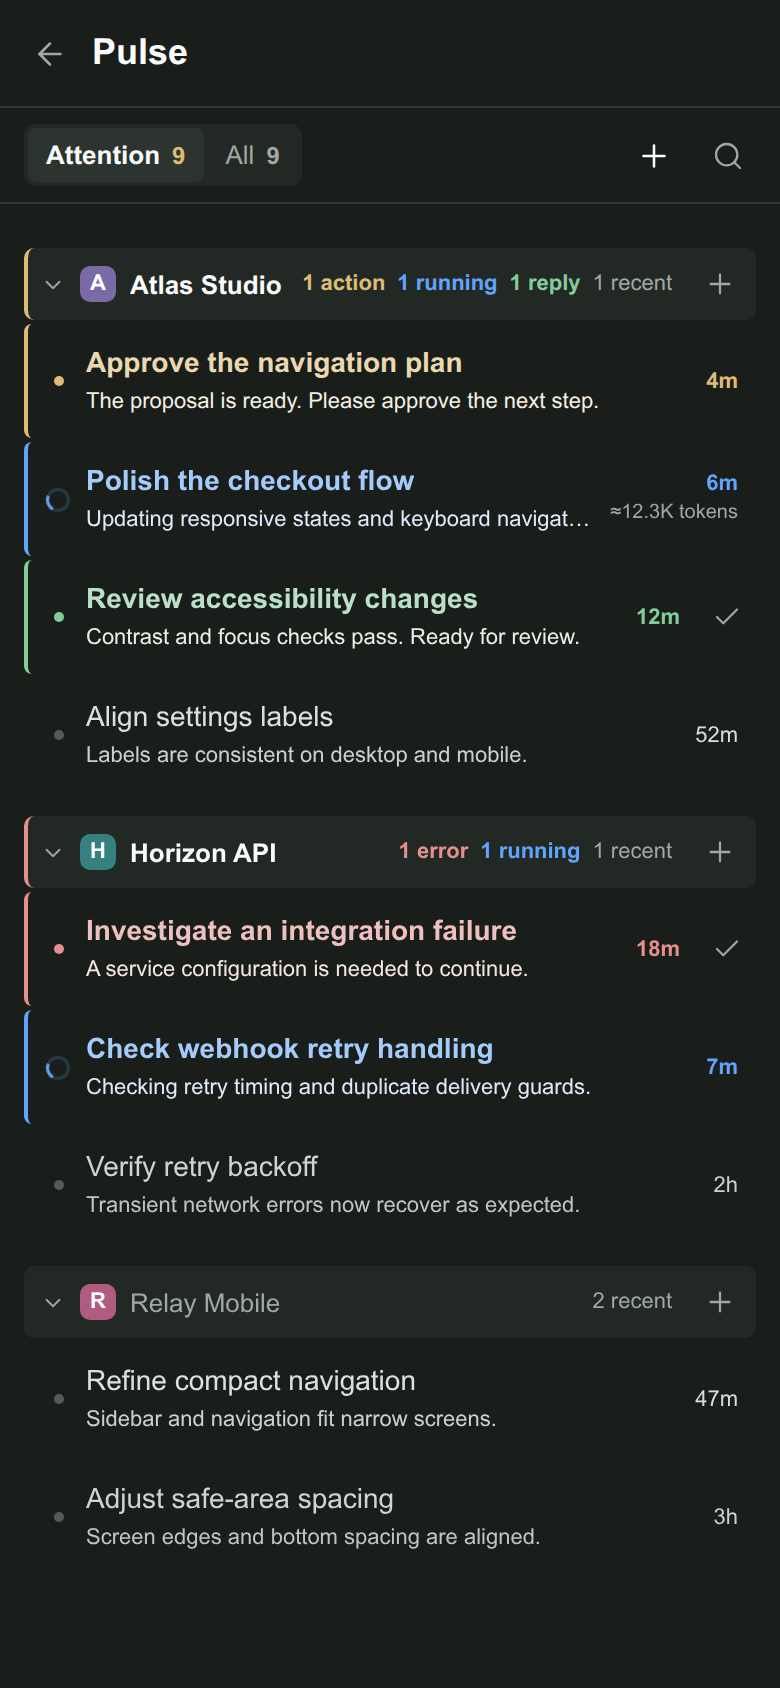
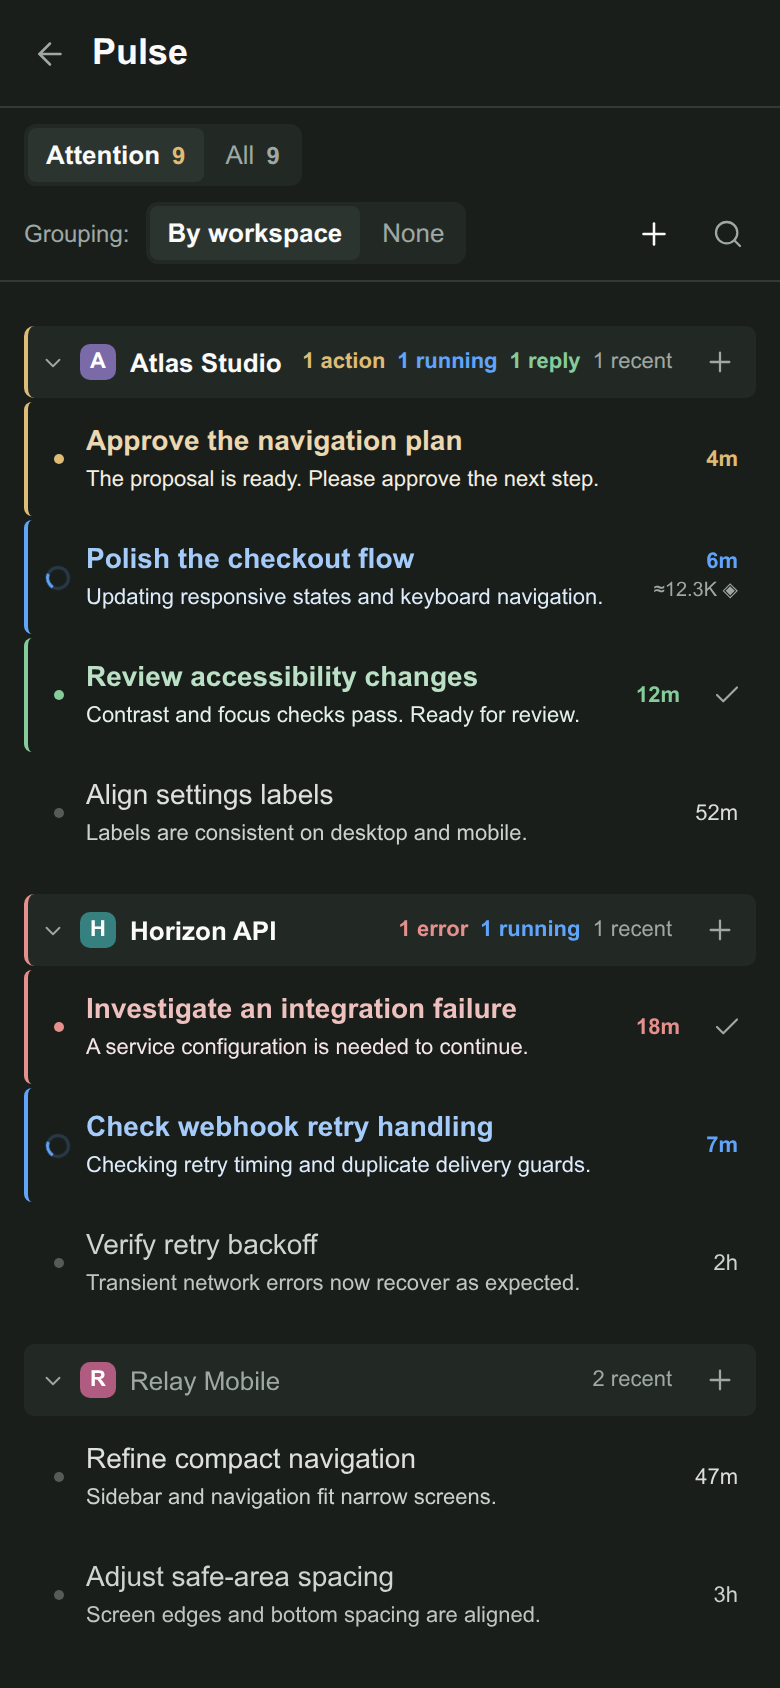
Add workspace grouping toggle to Pulse inbox

diff --git a/client/view-models/inbox-view-model.ts b/client/view-models/inbox-view-model.ts
@@ -35,6 +35,7 @@ export class InboxViewModel extends PulseViewModel<Payload> {
   search = "";
   searchOpen = false;
   onlyAttention = true;
+  groupByProject = true;
   private expanded = new Map<string, boolean>();
   private revealed = new Set<string>();
   constructor(params: ViewModelParams<Payload>) {
@@ -43,15 +44,18 @@ export class InboxViewModel extends PulseViewModel<Payload> {
       search: observable,
       searchOpen: observable,
       onlyAttention: observable,
+      groupByProject: observable,
       expanded: observable.shallow,
       revealed: observable.shallow,
       groups: computed,
+      flatRows: computed,
       attentionGroups: computed,
       totalAttention: computed,
       totalCount: computed,
       setSearch: action.bound,
       toggleSearch: action.bound,
       setOnlyAttention: action.bound,
+      setGroupByProject: action.bound,
       toggleGroup: action.bound,
       toggleRevealed: action.bound,
       openSession: action.bound,
@@ -68,7 +72,7 @@ export class InboxViewModel extends PulseViewModel<Payload> {
   }
   get groups() {
     const { entries, now, replies, iconProjects } = this.payload;
-    return groupSessions(entries, this.search, this.onlyAttention, now).map((group) => {
+    return groupSessions(entries, this.search, this.onlyAttention, now, this.groupByProject).map((group) => {
       const expansionKey = `${this.onlyAttention ? "attention" : "all"}:${group.key}`;
       const inactive = this.onlyAttention && group.entries.every(({ agent }) => {
         const timestamp = activity(agent);
@@ -86,7 +90,7 @@ export class InboxViewModel extends PulseViewModel<Payload> {
               activity(b.agent) - activity(a.agent) || a.agent.id.localeCompare(b.agent.id),
           );
       const revealKey = `${this.onlyAttention ? "attention" : "all"}:${group.key}`;
-      const showAll = !!this.search.trim() || this.revealed.has(revealKey);
+      const showAll = !this.groupByProject || !!this.search.trim() || this.revealed.has(revealKey);
       const previewCount = this.onlyAttention ? primaryEntries.length : GROUP_PREVIEW_LIMIT;
       const hiddenCount = Math.max(0, orderedEntries.length - previewCount);
       const visibleEntries = showAll ? orderedEntries : orderedEntries.slice(0, previewCount);
@@ -130,6 +134,12 @@ export class InboxViewModel extends PulseViewModel<Payload> {
         }),
       };
     });
+  }
+  get flatRows() {
+    return this.groups.flatMap((group) => group.rows);
+  }
+  setGroupByProject(value: boolean) {
+    this.groupByProject = value;
   }
   setSearch(value: string) {
     this.search = value;

diff --git a/client/views/inbox/inbox-toolbar.tsx b/client/views/inbox/inbox-toolbar.tsx
@@ -8,7 +8,7 @@ import type { InboxViewContext } from "./types";
 export const InboxToolbar = observer(function InboxToolbar({ context }: { context: InboxViewContext }) {
   const { props, binding } = context;
   const { model, creation, creationDisabled } = binding;
-  const { search, searchOpen, onlyAttention, totalAttention, attentionGroups } = model;
+  const { search, searchOpen, onlyAttention, groupByProject, totalAttention, attentionGroups } = model;
   const { t } = useMessages(),
     c = props.theme.colors;
   const countColor =
@@ -64,6 +64,39 @@ export const InboxToolbar = observer(function InboxToolbar({ context }: { contex
               </Text>
             </Pressable>
           ))}
+        </View>
+        <View style={{ flexDirection: "row", alignItems: "center", gap: 8, flexWrap: "wrap" }}>
+          <Text style={{ color: c.foregroundMuted, fontSize: 12 }}>{t("grouping")}:</Text>
+          <View
+            accessibilityRole="radiogroup"
+            accessibilityLabel={t("grouping")}
+            style={{ flexDirection: "row", gap: 2, borderRadius: 6, backgroundColor: c.surface1, padding: 2 }}
+          >
+            {[
+              { value: true, label: t("groupByWorkspace") },
+              { value: false, label: t("noGrouping") },
+            ].map((option) => (
+              <Pressable
+                key={option.label}
+                accessibilityRole="radio"
+                aria-checked={groupByProject === option.value}
+                accessibilityState={{ checked: groupByProject === option.value }}
+                onPress={() => model.setGroupByProject(option.value)}
+                style={{
+                  paddingHorizontal: 9,
+                  paddingVertical: 6,
+                  borderRadius: 4,
+                  backgroundColor: groupByProject === option.value ? c.surface2 : c.surface1,
+                }}
+              >
+                <Text style={{
+                  color: groupByProject === option.value ? c.foreground : c.foregroundMuted,
+                  fontSize: 13,
+                  fontWeight: groupByProject === option.value ? "600" : "400",
+                }}>{option.label}</Text>
+              </Pressable>
+            ))}
+          </View>
         </View>
         <View style={{ flex: 1 }} />
         <Pressable

diff --git a/shared/sessions/sessions.ts b/shared/sessions/sessions.ts
@@ -90,7 +90,7 @@ export interface SessionGroup {
   updatedAt: number;
 }
 const attentionRank = (reason: Attention) => reason ? rank[reason] : 0;
-export function groupSessions(entries: readonly SessionEntry[], search = "", onlyAttention = false, now = Date.now()) {
+export function groupSessions(entries: readonly SessionEntry[], search = "", onlyAttention = false, now = Date.now(), groupByProject = true) {
   const groups = new Map<string, SessionGroup>();
   const query = search.trim().toLocaleLowerCase();
   for (const entry of entries) {
@@ -101,11 +101,12 @@ export function groupSessions(entries: readonly SessionEntry[], search = "", onl
     if (onlyAttention && !reason && !recent && !isFrequentlyViewedSession(agent, now) && !isRevisitedSession(agent, now)) continue;
     if (query && ![agent.title, agent.cwd, agent.provider, project.projectName, project.workspaceName]
       .some((value) => value?.toLocaleLowerCase().includes(query))) continue;
-    let group = groups.get(project.projectKey);
+    const key = groupByProject ? project.projectKey : "ungrouped";
+    let group = groups.get(key);
     if (!group) {
-      group = { key: project.projectKey, name: project.projectName, entries: [], attention: null, count: 0, recentCount: 0,
+      group = { key, name: groupByProject ? project.projectName : "", entries: [], attention: null, count: 0, recentCount: 0,
         counts: { permission: 0, error: 0, running: 0, finished: 0 }, updatedAt: 0 };
-      groups.set(project.projectKey, group);
+      groups.set(key, group);
     }
     group.entries.push(entry);
     group.updatedAt = Math.max(group.updatedAt, activity(agent));

diff --git a/client/views/inbox/inbox-screen.tsx b/client/views/inbox/inbox-screen.tsx
@@ -3,6 +3,7 @@ import { observer } from "../../lib/mvvm";
 import { useInboxViewModel } from "../../bindings/use-inbox-view-model";
 import { InboxToolbar } from "./inbox-toolbar";
 import { InboxListHeader } from "./inbox-list-header";
+import { SessionRow } from "./session-row";
 import { ProjectGroup } from "./project-group";
 import type { InboxProps } from "./types";
 
@@ -22,7 +23,7 @@ const Inbox = observer(function Inbox(props: InboxProps) {
     >
       <View style={{ flex: 1, minWidth: 0 }}>
         <InboxToolbar context={context} />
-        <FlatList
+        {binding.model.groupByProject ? <FlatList
           style={{ flex: 1 }}
           data={binding.model.groups}
           keyExtractor={(group) => group.key}
@@ -32,7 +33,17 @@ const Inbox = observer(function Inbox(props: InboxProps) {
           contentContainerStyle={{ paddingHorizontal: 12, paddingVertical: 10, gap: 12 }}
           ListHeaderComponent={<InboxListHeader context={context} />}
           renderItem={({ item }) => <ProjectGroup context={context} group={item} />}
-        />
+        /> : <FlatList
+          style={{ flex: 1 }}
+          data={binding.model.flatRows}
+          keyExtractor={(row) => row.agent.id}
+          initialNumToRender={20}
+          maxToRenderPerBatch={20}
+          windowSize={5}
+          contentContainerStyle={{ paddingHorizontal: 12, paddingVertical: 10, gap: 2 }}
+          ListHeaderComponent={<InboxListHeader context={context} />}
+          renderItem={({ item }) => <SessionRow context={context} row={item} />}
+        />}
       </View>
     </View>
   );

diff --git a/OVERVIEW.ru.md b/OVERVIEW.ru.md
@@ -1,5 +1,7 @@
 Paseo Pulse добавляет раздел «Пульс» с компактным списком сессий по проектам. Нажатие на строку сразу открывает исходную сессию в Paseo. Два счётчика в боковой панели обновляются и при закрытом экране: синий показывает работающие и запускающиеся сессии, зелёный — новые завершённые ответы. Просмотренные, просто свежие и часто открываемые сессии не увеличивают зелёный счётчик.
 
+По умолчанию включена группировка по пространствам. Выберите «Нет» на панели, чтобы показать общий список без заголовков проектов и ограничений на число видимых сессий. Поиск и фильтры «Внимание»/«Все» сохраняются. В общем списке приоритет внимания и закреплённые сессии во вкладке «Все» учитываются сразу для всех проектов.
+
 Под временем сессии показан примерный суммарный расход токенов, если он сохранён провайдером. Это обработанный вход и выход с учётом кеша и размышлений без повторного подсчёта, а не стоимость или размер текущего контекста. Для Codex берётся накопительный итог, для OpenCode суммируются данные сообщений. У Claude итог показан только когда полная история помещается в ограниченное чтение 1 МиБ; повторные записи одного сообщения не суммируются дважды. При недостаточных или ненадёжных данных счётчик скрыт. Используется существующий кеш индекса, агенты не запускаются.
 
 Список занимает всю доступную ширину. Имена и закрепления из боковой панели Paseo обновляются автоматически. Во «Все» закреплённые сессии идут первыми внутри проекта и входят в первые шесть строк; порядок приоритетов во «Внимании» сохраняется. Контраст названия, превью и времени зависит от возраста сообщений: минуты, часы и дни различаются. Просмотренные сессии приглушены, но свежесть остаётся различимой. Работа, ответы, запросы действия и ошибки сохраняют цветовые акценты. Закрепление выделяет название, не меняя свежесть времени.

diff --git a/OVERVIEW.fr.md b/OVERVIEW.fr.md
@@ -1,5 +1,7 @@
 Paseo Pulse ajoute une page Pulse avec une liste compacte regroupée par projet. Un clic ouvre directement la session dans Paseo. Deux badges se mettent à jour même lorsque la page est fermée : le bleu compte les sessions en cours ou au démarrage, le vert les nouvelles réponses terminées. Les sessions lues, récentes ou souvent consultées n’augmentent pas le badge vert.
 
+Le regroupement par espace de travail est activé par défaut. Sélectionnez Aucun dans la barre pour afficher une liste sans en-têtes de projet ni limite d’aperçu. La recherche et les filtres Attention/Tout restent actifs ; la priorité d’attention et les sessions épinglées dans Tout s’appliquent à tous les projets.
+
 Quand les données enregistrées le permettent, un total approximatif des jetons de la session apparaît sous l’heure. Il comprend les entrées, sorties, cache et raisonnement sans double comptage ; ce n’est ni un prix ni la taille du contexte actuel. Codex fournit un total cumulé ; OpenCode conserve l’usage par message. Le total Claude est affiché uniquement si toute la conversation tient dans la lecture limitée à 1 Mio, en dédupliquant les messages répétés. Les totaux indisponibles ou incertains sont masqués. Le cache existant est utilisé sans démarrer d’agent.
 
 La liste occupe toute la largeur disponible. Les noms personnalisés et les épingles de la barre latérale Paseo se synchronisent en direct. Dans Toutes, les sessions épinglées apparaissent en premier dans chaque projet et comptent parmi les six lignes visibles ; À suivre conserve son ordre de priorité. Le contraste du titre, de l’aperçu et de l’heure varie selon l’âge des messages, en minutes, heures ou jours. Les sessions lues restent atténuées tout en gardant ces différences. Les états actifs conservent leurs accents colorés ; une épingle souligne le nom sans rajeunir l’heure du dernier message.

diff --git a/OVERVIEW.md b/OVERVIEW.md
@@ -1,5 +1,7 @@
 Paseo Pulse adds a Pulse page with a compact project-grouped list. Select a session to open it directly in Paseo. Two sidebar badges update while the page is closed: blue counts running or starting sessions, and green counts new completed replies. Read, recent and frequently viewed sessions do not increase the green badge.
 
+Grouping defaults to By workspace. Select None in the toolbar to show one list without project headers or preview limits; search and Attention/All filters still apply. Attention priority and pinned-first ordering in All apply across projects in this mode.
+
 When saved usage is available, each row shows an approximate session token total below the time. It includes processed input and output, cache and reasoning without counting subtotals twice, and is not a monetary cost or the current context size. Codex uses its cumulative total; OpenCode sums saved assistant usage. Claude totals are shown only when the complete transcript fits the bounded 1 MiB read, with repeated message snapshots deduplicated. Unavailable or unreliable totals are omitted. Reads reuse the existing cached index and never start agents.
 
 The list uses the full available width. Custom names and pins from the native Paseo sidebar update live. In All, pinned sessions appear first within each project and count toward the six visible rows; Attention keeps its existing priority order. Title, preview and time contrast reflect message age, with separate levels for minutes, hours and days. Read sessions remain subdued while retaining these age differences. Active states keep their blue, green, yellow or red accents; pins emphasize names without making old message timestamps look fresh.

diff --git a/OVERVIEW.zh-TW.md b/OVERVIEW.zh-TW.md
@@ -1,5 +1,7 @@
 Paseo Pulse 新增依專案分組的精簡「Pulse」頁面。點選工作階段即可直接在 Paseo 中開啟。側邊欄有兩個即時更新的徽章：藍色顯示執行或啟動中的工作階段，綠色顯示新的已完成回覆。即使頁面關閉也會更新；已讀、近期或經常開啟的工作階段不會增加綠色計數。
 
+預設依工作區分組。在工具列選擇「無」，即可顯示沒有專案標題或預覽數量限制的單一清單。搜尋與注意／全部篩選仍然有效；注意事項優先順序及全部清單中的置頂排序會跨專案套用。
+
 若提供者儲存了可靠的用量，時間下方會顯示工作階段的約略 token 總數，包含輸入、輸出、快取與推理，且不重複計算。這不是費用或目前的上下文大小。Codex 使用累計值，OpenCode 加總訊息用量。Claude 僅在完整紀錄可於 1 MiB 的讀取限制內取得時顯示，並排除重複訊息快照。缺少可靠資料時隱藏計數。資料沿用現有快取，不會啟動代理程式。
 
 清單使用所有可用寬度。Paseo 側邊欄的自訂名稱與釘選會即時同步。在「全部」中，釘選工作階段會排在各專案最上方，並計入前六列；「需關注」維持原有優先順序。標題、預覽與時間的對比會依訊息的新舊程度調整，區分分鐘、小時與天數。已讀項目較柔和，但仍能辨別新舊。執行、回覆、權限請求與錯誤保留各自的色彩；釘選只強調名稱，不會使舊訊息的時間看起來較新。
